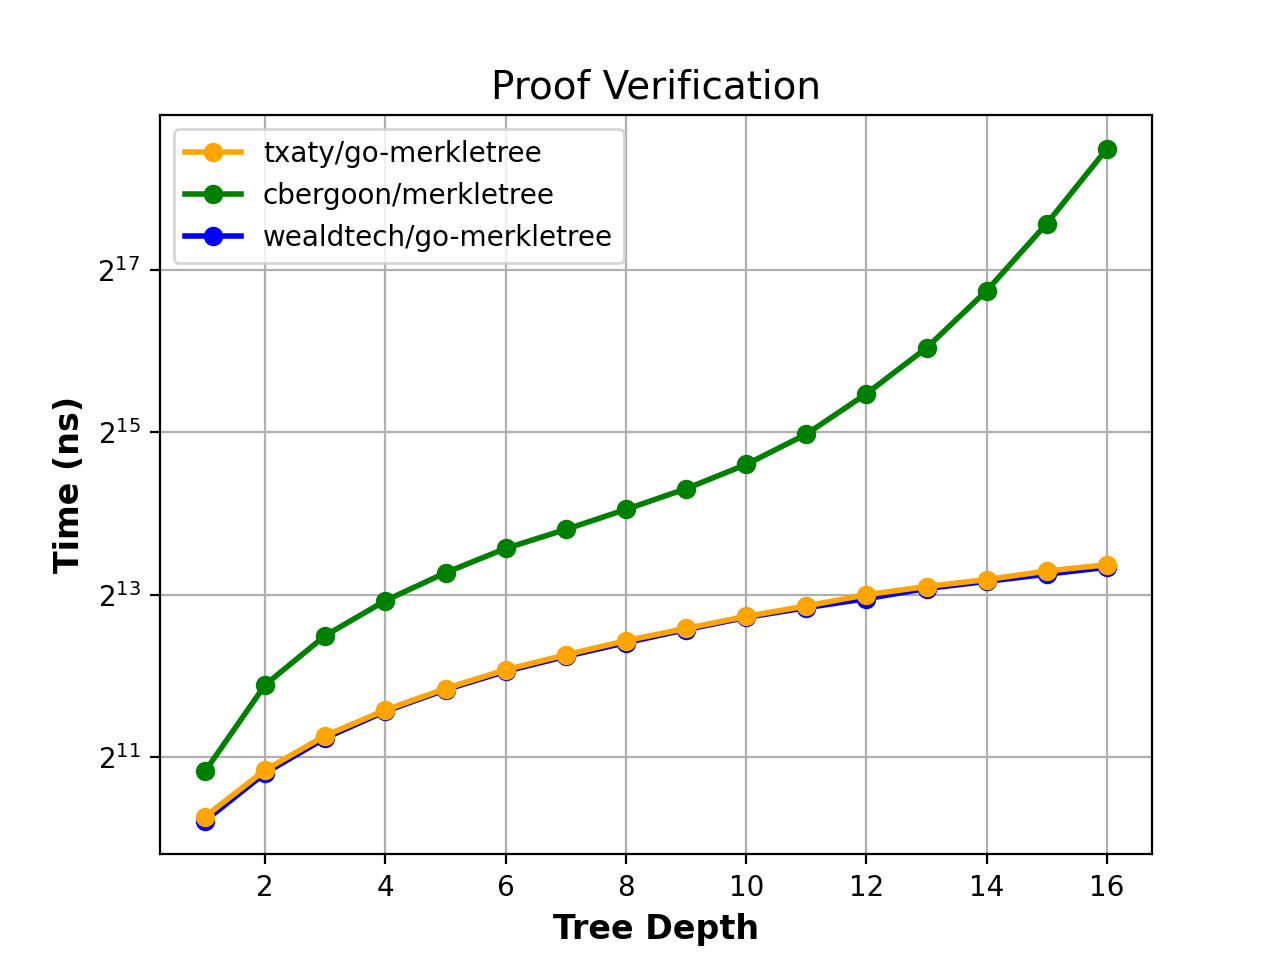
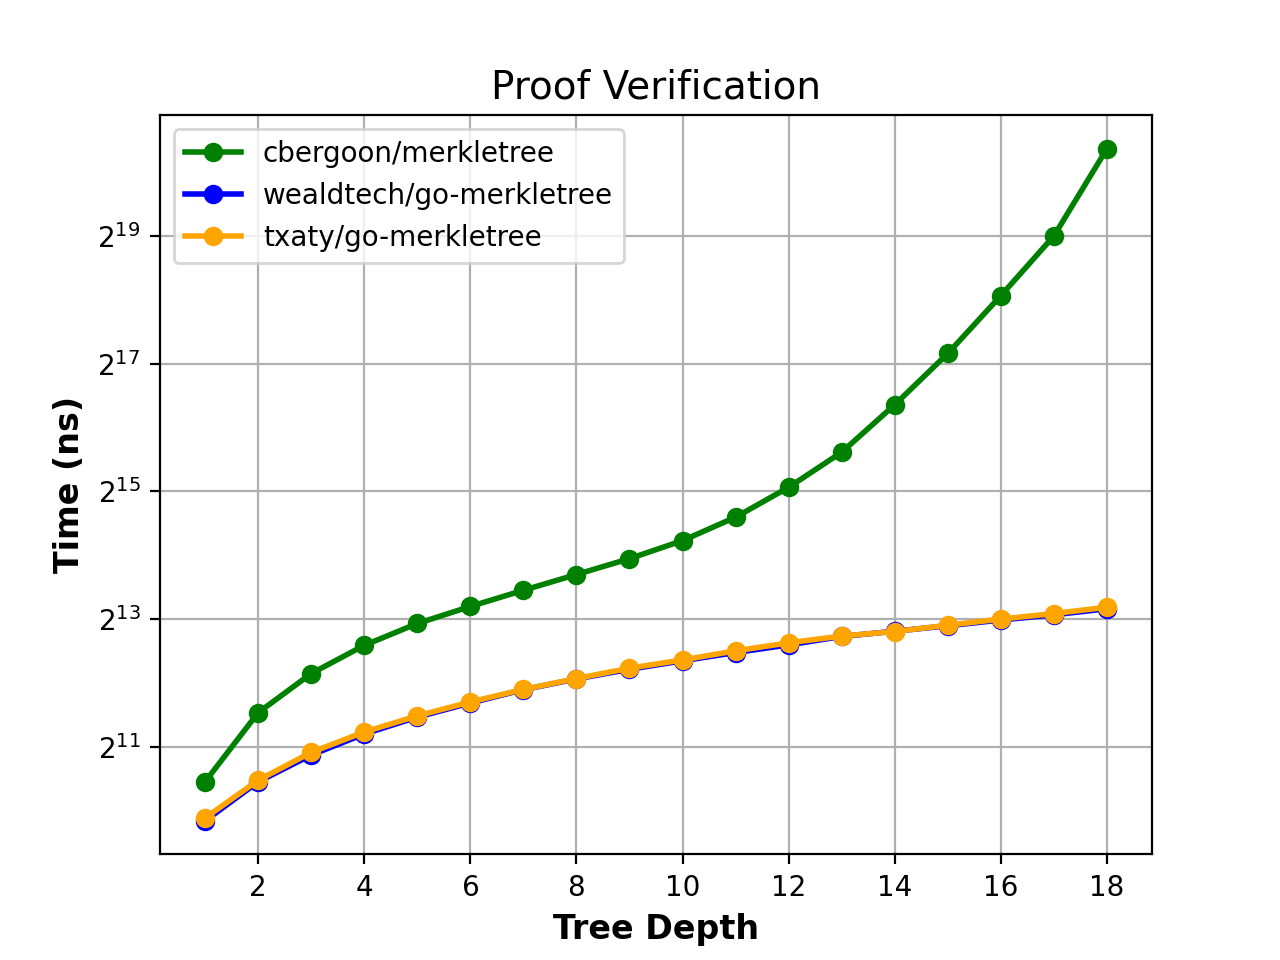
Update benchmark.

diff --git a/draw.py b/draw.py
@@ -1,21 +1,39 @@
-from functools import partial
-
 import matplotlib.pyplot as plt
-import numpy as np
-from matplotlib.pyplot import figure
+from matplotlib.ticker import MaxNLocator
 
-
-txaty_proof_gen_all = [2352, 5118, 10883, 21324, 42856, 86470, 178578, 358942, 734493, 1520877, 3176012, 6343995, 13685011, 26590701, 55981955, 113353173]
-txaty_proof_gen_parallel_all = [19717, 35318, 64952, 111570, 164611, 232532, 322697, 476443, 745326, 1195010, 2040111, 3488114, 6662743, 11398593, 21766570, 41551768]
-cbergoon_proof_gen_all = [2502, 6364, 14811, 31017, 70547, 151345, 348514, 874565, 2521951, 7719747, 26018175, 95316725, 355254739, 1383863295, 5416802985, 22259458118]
-wealdtech_proof_gen_all = [2269, 5016, 10590, 21840, 45960, 98875, 223991, 550677, 1484146, 4571199, 15548661, 58026425, 225315399, 868889058, 3378439211, 13462518972]
-txaty_proof_gen_single = [6153, 9957, 18002, 36752, 70505, 122617, 231687, 378745, 710623, 1412031, 2811667, 5809220, 11246548, 21962968, 43790797, 90331881]
-txaty_proof_gen_parallel_single = [21545, 38015, 64679, 105731, 155176, 228758, 344212, 550354, 926139, 1623271, 2881416, 5411962, 10514600, 19331167, 37620382, 74837199]
-cbergoon_proof_gen_single = [2436, 5527, 11429, 22837, 45359, 91372, 178967, 355061, 714862, 1442884, 2892521, 5965374, 12383617, 24859955, 48884615, 98070750]
-wealdtech_proof_gen_single = [2171, 4543, 9280, 18742, 37733, 76342, 150641, 302570, 605716, 1219518, 2423069, 4854252, 9904926, 19597464, 39747132, 79132694]
-txaty_verify = [1236, 1839, 2464, 3066, 3682, 4320, 4910, 5537, 6146, 6814, 7447, 8194, 8788, 9327, 10027, 10586]
-cbergoon_verify = [1820, 3802, 5785, 7793, 9887, 12164, 14297, 16959, 20233, 24887, 32211, 45495, 67250, 109546, 194075, 367243]
-wealdtech_verify = [1192, 1793, 2415, 3034, 3645, 4265, 4845, 5446, 6087, 6756, 7338, 7922, 8640, 9182, 9762, 10354]
+# txaty_proof_gen_all = [2352, 5118, 10883, 21324, 42856, 86470, 178578, 358942, 734493, 1520877, 3176012, 6343995, 13685011, 26590701, 55981955, 113353173]
+# txaty_proof_gen_parallel_all = [19717, 35318, 64952, 111570, 164611, 232532, 322697, 476443, 745326, 1195010, 2040111, 3488114, 6662743, 11398593, 21766570, 41551768]
+# cbergoon_proof_gen_all = [2502, 6364, 14811, 31017, 70547, 151345, 348514, 874565, 2521951, 7719747, 26018175, 95316725, 355254739, 1383863295, 5416802985, 22259458118]
+# wealdtech_proof_gen_all = [2269, 5016, 10590, 21840, 45960, 98875, 223991, 550677, 1484146, 4571199, 15548661, 58026425, 225315399, 868889058, 3378439211, 13462518972]
+# txaty_proof_gen_single = [6153, 9957, 18002, 36752, 70505, 122617, 231687, 378745, 710623, 1412031, 2811667, 5809220, 11246548, 21962968, 43790797, 90331881]
+# txaty_proof_gen_parallel_single = [21545, 38015, 64679, 105731, 155176, 228758, 344212, 550354, 926139, 1623271, 2881416, 5411962, 10514600, 19331167, 37620382, 74837199]
+# cbergoon_proof_gen_single = [2436, 5527, 11429, 22837, 45359, 91372, 178967, 355061, 714862, 1442884, 2892521, 5965374, 12383617, 24859955, 48884615, 98070750]
+# wealdtech_proof_gen_single = [2171, 4543, 9280, 18742, 37733, 76342, 150641, 302570, 605716, 1219518, 2423069, 4854252, 9904926, 19597464, 39747132, 79132694]
+# txaty_verify = [1236, 1839, 2464, 3066, 3682, 4320, 4910, 5537, 6146, 6814, 7447, 8194, 8788, 9327, 10027, 10586]
+# cbergoon_verify = [1820, 3802, 5785, 7793, 9887, 12164, 14297, 16959, 20233, 24887, 32211, 45495, 67250, 109546, 194075, 367243]
+# wealdtech_verify = [1192, 1793, 2415, 3034, 3645, 4265, 4845, 5446, 6087, 6756, 7338, 7922, 8640, 9182, 9762, 10354]
+txaty_proof_gen_all = [1827, 3981, 8220, 16647, 33713, 67603, 137337, 274263, 554707, 1131566, 2332726, 5010428,
+                       10694700, 21508258, 46088669, 96713810, 220444567, 475300155]
+txaty_proof_gen_parallel_all = [15324, 27150, 52932, 101029, 148554, 208522, 296577, 409535, 605298, 949092, 1588533,
+                                2756362, 5044146, 8638146, 16154967, 31140110, 66998718, 139837808]
+cbergoon_proof_gen_all = [1953, 4979, 11601, 24292, 56130, 119258, 267440, 649713, 1911629, 5690264, 18825167, 67826628,
+                          250663994, 979589732, 3789822708, 15638533893, 66456101971, 359397309304]
+wealdtech_proof_gen_all = [1779, 3926, 8349, 17191, 36421, 78194, 178620, 441342, 1226537, 3793499, 12983764, 47180416,
+                           179594119, 703603668, 2775491740, 10986580866, 43808882206, 187204778186]
+txaty_proof_gen_single = [3504, 7585, 10035, 20291, 37800, 74347, 149056, 259569, 505783, 999594, 1993451, 3966579,
+                          8131812, 16196440, 32640968, 65971359, 135357700, 276682365]
+txaty_proof_gen_parallel_single = [9177, 21083, 42763, 82212, 125903, 172305, 242156, 344661, 487312, 687187, 1022766,
+                                   1771015, 2917188, 5309760, 10490605, 22495208, 50515227, 125372482]
+cbergoon_proof_gen_single = [1849, 4302, 9009, 18059, 36123, 71146, 141386, 279580, 563511, 1134745, 2267595, 4790391,
+                             9598958, 18968197, 37658031, 76950032, 154022972, 313622148]
+wealdtech_proof_gen_single = [1664, 3554, 7242, 14609, 29598, 58742, 117850, 235527, 471669, 944040, 1901234, 3789042,
+                              7767292, 15373027, 30654346, 62830339, 125100856, 253123392]
+txaty_verify = [946.7, 1426, 1929, 2408, 2867, 3336, 3820, 4300, 4812, 5264, 5808, 6338, 6820, 7165, 7674, 8199, 8706,
+                9330]
+cbergoon_verify = [1403, 2969, 4539, 6166, 7817, 9405, 11208, 13303, 15799, 19221, 24782, 34269, 50164, 83995, 146504,
+                   274354, 524420, 1351583]
+wealdtech_verify = [918.1, 1402, 1875, 2356, 2830, 3300, 3810, 4283, 4758, 5215, 5702, 6198, 6791, 7188, 7625, 8120,
+                    8590, 9175]
 
 # LEFT_THRESHOLD = 5
 # RIGHT_THRESHOLD = 12
@@ -27,40 +45,63 @@ wealdtech_verify = [1192, 1793, 2415, 3034, 3645, 4265, 4845, 5446, 6087, 6756, 
 
 x_axis = [i for i in range(1, len(txaty_verify) + 1)]
 
-if __name__ == "__main__":
-    # plt.plot(x_axis, proof_gen_times, label="proof_gen_times")
-    # plt.plot(x_axis, proof_gen_parallel_times, label="Proof Gen")
+
+def plot_proof_gen_all():
+    ax = plt.figure().gca()  # get current axis
+    ax.xaxis.set_major_locator(MaxNLocator(integer=True))
     plt.rcParams["font.size"] = "10"
-    # plt.fill_between(x_axis, np.log2(txaty_proof_gen_all), "-o", label="txaty/go-merkletree")
-    # plt.fill_between(x_axis, np.log2(txaty_proof_gen_parallel_all), "-o", label="txaty/go-merkletree (Parallel)")
-    # plt.fill_between(x_axis, np.log2(cbergoon_proof_gen_all), "-o", label="cbergoon/merkletree")
-    # plt.fill_between(x_axis, np.log2(wealdtech_proof_gen_all), "-o", label="wealdtech/go-merkletree")
-    # plt.semilogy(x_axis, txaty_proof_gen_all, "-o", label="txaty/go-merkletree", color='orange', linewidth=2, base=2)
-    # plt.semilogy(x_axis, txaty_proof_gen_parallel_all, "-o", label="txaty/go-merkletree (Parallel)", color='red', linewidth=2, base=2)
-    # plt.semilogy(x_axis, cbergoon_proof_gen_all, "-o", label="cbergoon/merkletree", color='green', linewidth=2, base=2)
-    # plt.semilogy(x_axis, wealdtech_proof_gen_all, "-o", label="wealdtech/go-merkletree", color='blue', linewidth=2, base=2)    
-    # plt.plot(x_axis, txaty_proof_gen_single, "-o", label="txaty/go-merkletree", color='orange', linewidth=2)
-    # plt.plot(x_axis, txaty_proof_gen_parallel_single, "-o", label="txaty/go-merkletree (Parallel)", color='red', linewidth=2)
-    # plt.plot(x_axis, cbergoon_proof_gen_single, "-o", label="cbergoon/merkletree", color='green', linewidth=2)
-    # plt.plot(x_axis, wealdtech_proof_gen_single, "-o", label="wealdtech/go-merkletree", color='blue', linewidth=2)    
-    plt.semilogy(x_axis, txaty_verify, "-o", label="txaty/go-merkletree", color='orange', linewidth=2, base=2, zorder=3)
-    # plt.plot(x_axis, txaty_proof_gen_parallel_single, "-o", label="txaty/go-merkletree (Parallel)", color='red', linewidth=2)
-    plt.semilogy(x_axis, cbergoon_verify, "-o", label="cbergoon/merkletree", color='green', linewidth=2, base=2)
-    plt.semilogy(x_axis, wealdtech_verify, "-o", label="wealdtech/go-merkletree", color='blue', linewidth=2, base=2)
-    # plt.semilogy(x_axis, txaty_proof_gen_all, "-o", label="txaty/go-merkletree", base=2)
-    # plt.semilogy(x_axis, txaty_proof_gen_parallel_all, "-o", label="txaty/go-merkletree (Parallel)",base=2)
-    # plt.semilogy(x_axis, cbergoon_proof_gen_all, "-o", label="cbergoon/merkletree",base=2)
-    # plt.semilogy(x_axis, wealdtech_proof_gen_all, "-o", label="wealdtech/go-merkletree",base=2)
+    plt.semilogy(x_axis, cbergoon_proof_gen_all, "-o", label="cbergoon/merkletree", base=2, color="green")
+    plt.semilogy(x_axis, wealdtech_proof_gen_all, "-o", label="wealdtech/go-merkletree", base=2, color="blue")
+    plt.semilogy(x_axis, txaty_proof_gen_all, "-o", label="txaty/go-merkletree", base=2, color="orange")
+    plt.semilogy(x_axis, txaty_proof_gen_parallel_all, "-o", label="txaty/go-merkletree (Parallel)", base=2,
+                 color="red")
     plt.ylabel("Time (ns)", fontweight="bold", fontsize=12)
     plt.xlabel("Tree Depth", fontweight="bold", fontsize=12)
     plt.yticks(fontsize=10)
     plt.xticks(fontsize=10)
     plt.grid(True)
     plt.legend(loc='upper left', fontsize=10)
-    # plt.title("Proof Generation for All Blocks", fontsize=14)
+    plt.title("Proof Generation for All Blocks", fontsize=14)
+    plt.savefig("proof_gen_all.png", dpi=200)
+
+
+def plot_proof_gen_single():
+    ax = plt.figure().gca()  # get current axis
+    ax.xaxis.set_major_locator(MaxNLocator(integer=True))
+    plt.rcParams["font.size"] = "10"
+    plt.semilogy(x_axis, cbergoon_proof_gen_single, "-o", label="cbergoon/merkletree", base=2, color="green")
+    plt.semilogy(x_axis, wealdtech_proof_gen_single, "-o", label="wealdtech/go-merkletree", base=2, color="blue")
+    plt.semilogy(x_axis, txaty_proof_gen_single, "-o", label="txaty/go-merkletree", base=2, color="orange")
+    plt.semilogy(x_axis, txaty_proof_gen_parallel_single, "-o", label="txaty/go-merkletree (Parallel)", base=2,
+                 color="red")
+    plt.ylabel("Time (ns)", fontweight="bold", fontsize=12)
+    plt.xlabel("Tree Depth", fontweight="bold", fontsize=12)
+    plt.yticks(fontsize=10)
+    plt.xticks(fontsize=10)
+    plt.grid(True)
+    plt.legend(loc='upper left', fontsize=10)
+    plt.title("Proof Generation for a Single Block", fontsize=14)
+    plt.savefig("proof_gen_single.png", dpi=200)
+
+
+def plot_proof_verification():
+    ax = plt.figure().gca()  # get current axis
+    ax.xaxis.set_major_locator(MaxNLocator(integer=True))
+    plt.rcParams["font.size"] = "10"
+    plt.semilogy(x_axis, cbergoon_verify, "-o", label="cbergoon/merkletree", color='green', linewidth=2, base=2)
+    plt.semilogy(x_axis, wealdtech_verify, "-o", label="wealdtech/go-merkletree", color='blue', linewidth=2, base=2)
+    plt.semilogy(x_axis, txaty_verify, "-o", label="txaty/go-merkletree", color='orange', linewidth=2, base=2, zorder=3)
+    plt.ylabel("Time (ns)", fontweight="bold", fontsize=12)
+    plt.xlabel("Tree Depth", fontweight="bold", fontsize=12)
+    plt.yticks(fontsize=10)
+    plt.xticks(fontsize=10)
+    plt.grid(True)
+    plt.legend(loc='upper left', fontsize=10)
     plt.title("Proof Verification", fontsize=14)
-    # plt.tight_layout()
-    # plt.tight_layout()
-    # plt.show()
-    # plt.savefig("proof_gen.png", dpi=200)
     plt.savefig("proof_verification.png", dpi=200)
+
+
+if __name__ == "__main__":
+    plot_proof_gen_all()
+    plot_proof_gen_single()
+    plot_proof_verification()
